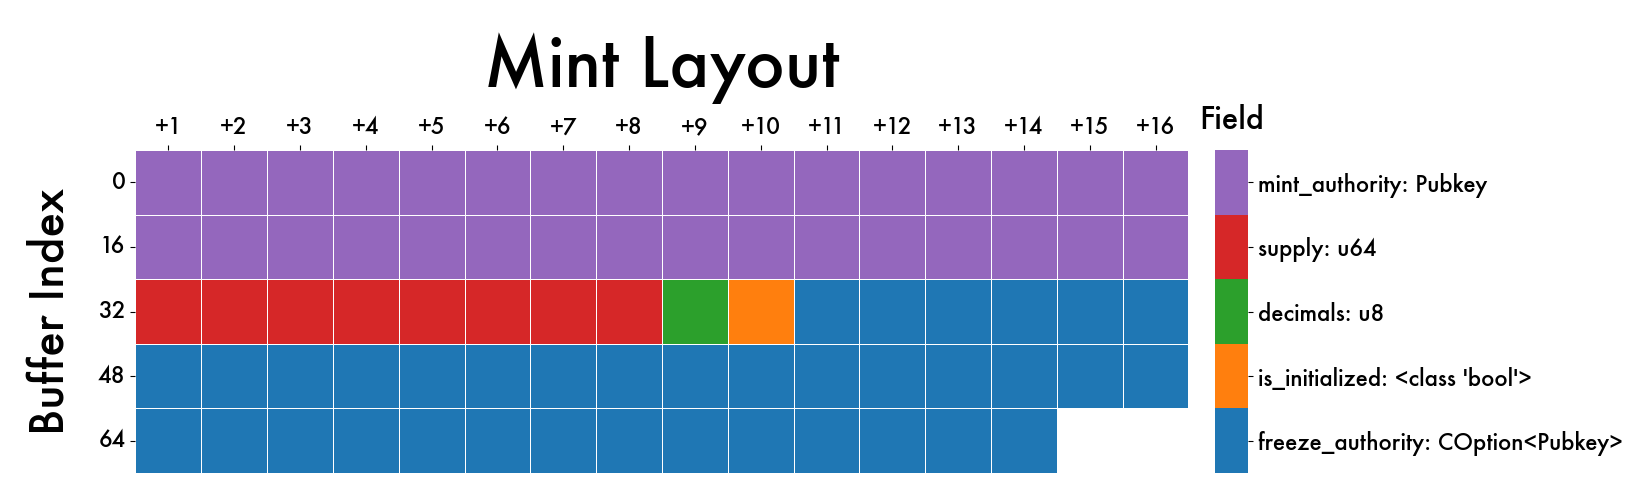
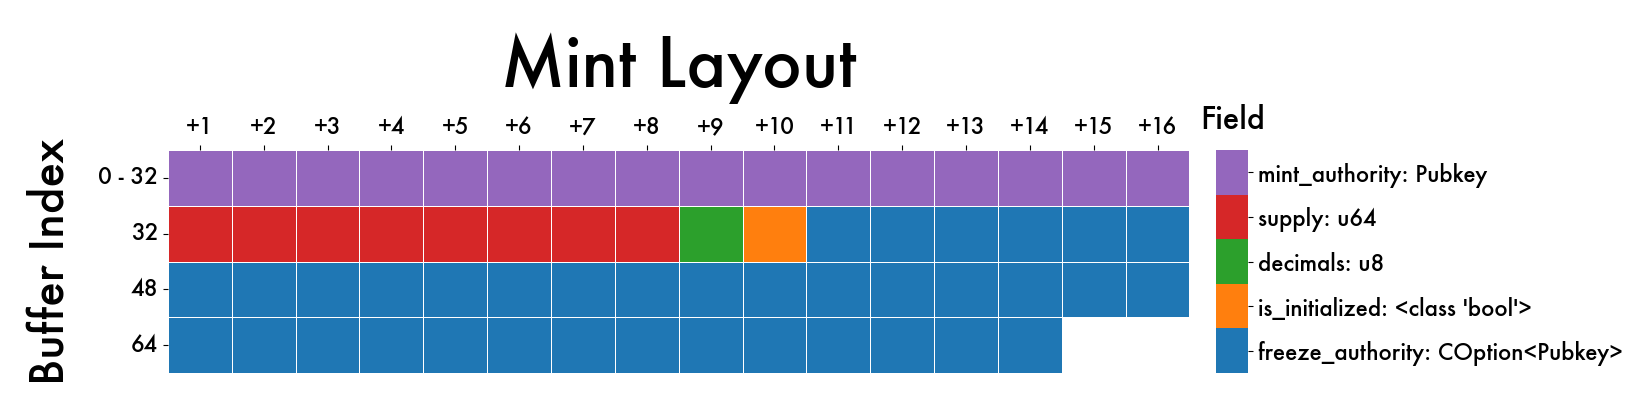
condense repeating rows

diff --git a/account_visualization.py b/account_visualization.py
@@ -19,11 +19,13 @@ def generate_account_visualization(
         for _ in range(0, size, step):
             rows.append([f"{field}: {data_type}"])
     df = pd.DataFrame(rows, columns=["field"])
+    labels = list(reversed(df['field'].unique().tolist()))
+    field_to_idx = dict([(c, i) for i, c in enumerate(labels)])
     df["row"] = (df.index // int(num_cols)) * num_cols * step
     df["col"] = ((df.index % num_cols) + 1) * step
-    vis_df = df.set_index("row").pivot(columns="col").field
-    labels = list(reversed(df["field"].unique().tolist()))
-    field_to_idx = dict([(c, i) for i, c in enumerate(labels)])
+    vis_df = df.set_index("row").pivot(columns="col").field.replace(field_to_idx)
+    diff = vis_df.diff()
+    vis_df = vis_df[(diff.abs().sum(axis=1) != 0) | ((diff == diff).sum(axis=1) != vis_df.shape[1])]
     plt.rcParams.update({"font.size": 18, "font.family": "Futura", "axes.labelpad": 15})
     size = 1
     cbar_size = 0.5
@@ -64,7 +66,14 @@ def generate_account_visualization(
     ax.xaxis.tick_top()
     ax.xaxis.set_label_position("top")
     ax.set_xticklabels([f"+{x}" for x in vis_df.columns.tolist()], minor=False)
-    ax.set_yticklabels(vis_df.index.tolist(), minor=False)
+    yticklabels = []
+    for curr, prev in zip(vis_df.index[1:], vis_df.index):
+        if curr - prev != step * num_cols:
+            yticklabels.append(f"{prev} - {curr}")
+        else:
+            yticklabels.append(f"{prev}")
+    yticklabels.append(str(vis_df.index[-1]))
+    ax.set_yticklabels(yticklabels, minor=False)
     ax.tick_params(axis="y", labelrotation=0)
     ax.set_xlabel(None)
     ax.set_ylabel(
@@ -107,20 +116,36 @@ if __name__ == "__main__":
     generate_account_visualization(token_account, title="Token Account Layout")
     generate_account_visualization(mint, title="Mint Layout")
 
-    derivative_metadata = OrderedDict(
-        tag=('AccountTag', 8),
-        bump=('u64', 8),
-        instrument_type=('InstrumentType', 8),
-        strike=('Fractional', 16),
-        initialization_time=('UnixTimestamp', 8),
-        full_funding_period=('UnixTimestamp', 8),
-        minimum_funding_period=('UnixTimestamp', 8),
-        oracle_type=('OracleType', 8),
-        price_oracle=('Pubkey', 32),
-        market_product_group=('Pubkey', 32),
-        close_authority=('Pubkey', 32),
-        clock=('Pubkey', 32),
-        last_funding_time=('UnixTimestamp', 8),
-        expired=('ExpirationStatus', 8),
+    token_metadata = OrderedDict(
+        key=('Key', 1),
+        update_authority=('Pubkey', 32),
+        mint=('Pubkey', 32),
+        name_size=('usize', 4),
+        name=('String', 32),
+        symbol_size=('usize', 4),
+        symbol=('String', 10),
+        uri_size=('usize', 4),
+        uri=('String', 200),
+        seller_fee_basis_points=('u16', 2),
+        creators_size=('usize', 4),
+        creator0_pubkey=('Pubkey', 32),
+        creator0_verified=('bool', 1),
+        creator0_share=('u8', 1),
+        creator1_pubkey=('Pubkey', 32),
+        creator1_verified=('bool', 1),
+        creator1_share=('u9', 1),
+        creator2_pubkey=('Pubkey', 32),
+        creator2_verified=('bool', 1),
+        creator2_share=('u8', 1),
+        creator3_pubkey=('Pubkey', 32),
+        creator3_verified=('bool', 1),
+        creator3_share=('u8', 1),
+        creator4_pubkey=('Pubkey', 32),
+        creator4_verified=('bool', 1),
+        creator4_share=('u8', 1),
+        primary_sale_happened=('bool', 1),
+        is_mutable=('bool', 1),
+        edition_nonce=('Option<u8>', 5),
+        padding=('bytes', 176)
     )
-    generate_account_visualization(derivative_metadata, num_cols=8, title="Derivative Metadata Layout")
+    generate_account_visualization(token_metadata, title="Token Metadata Layout")
